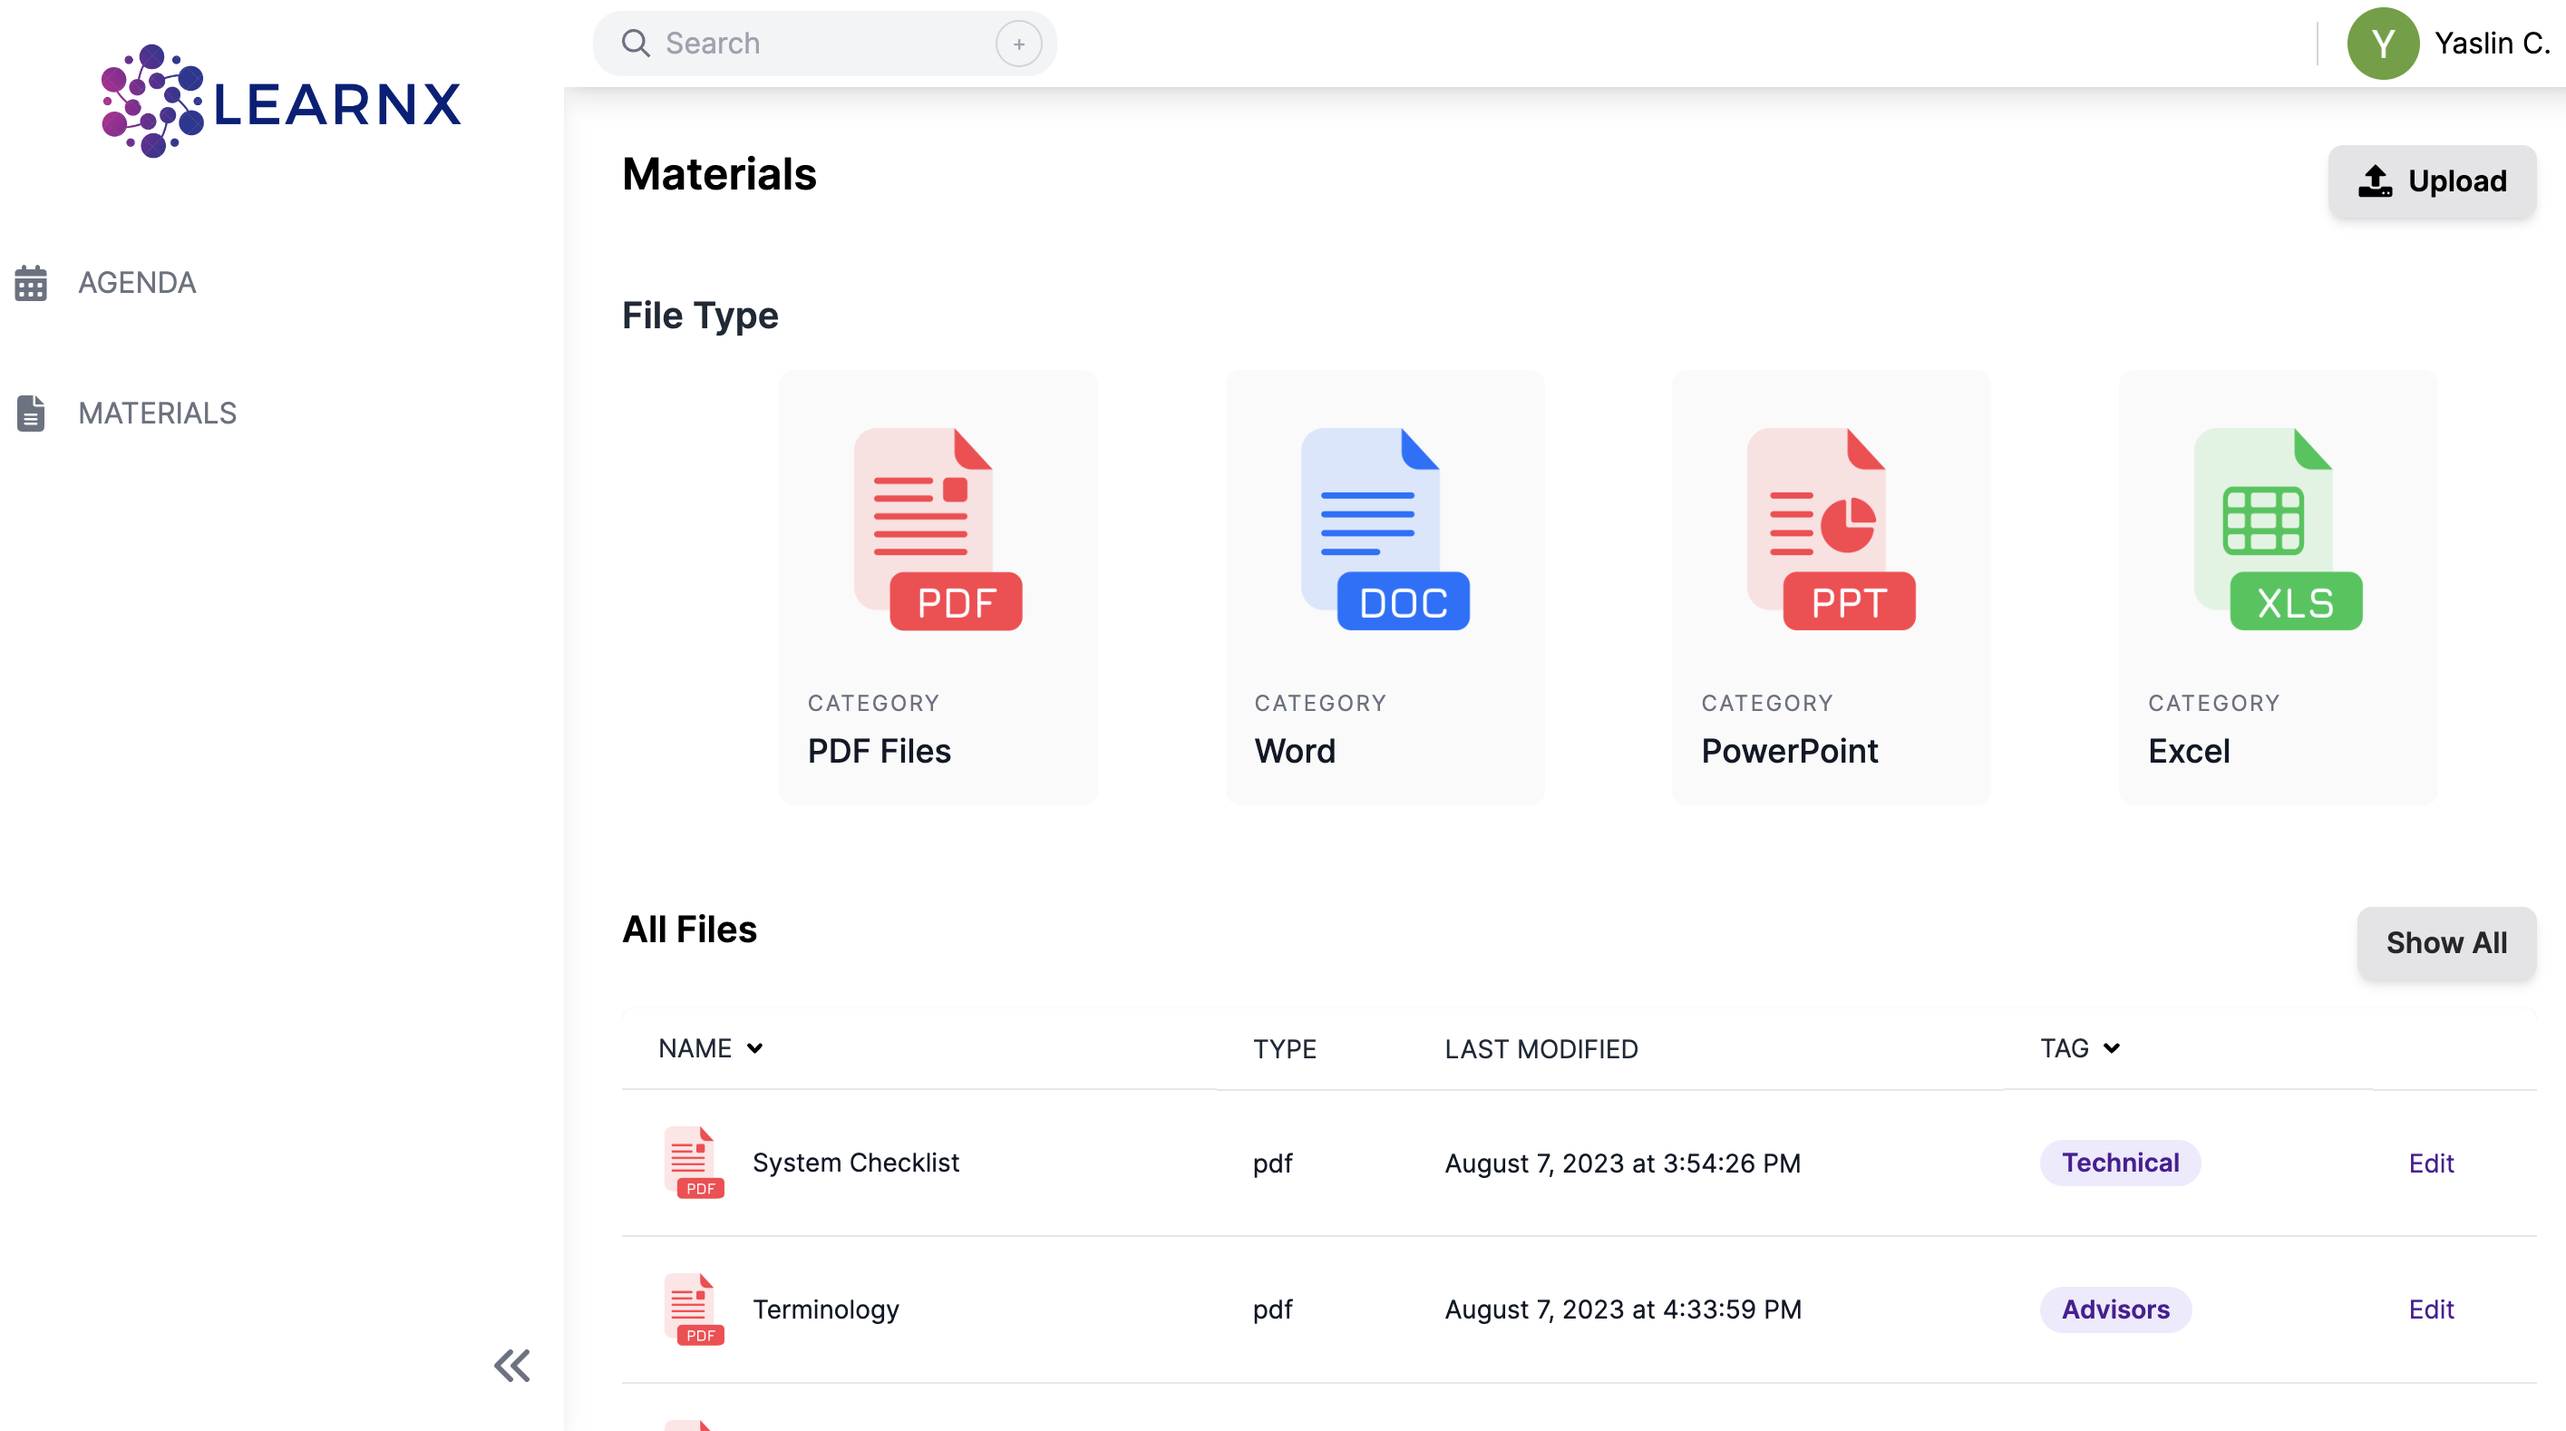
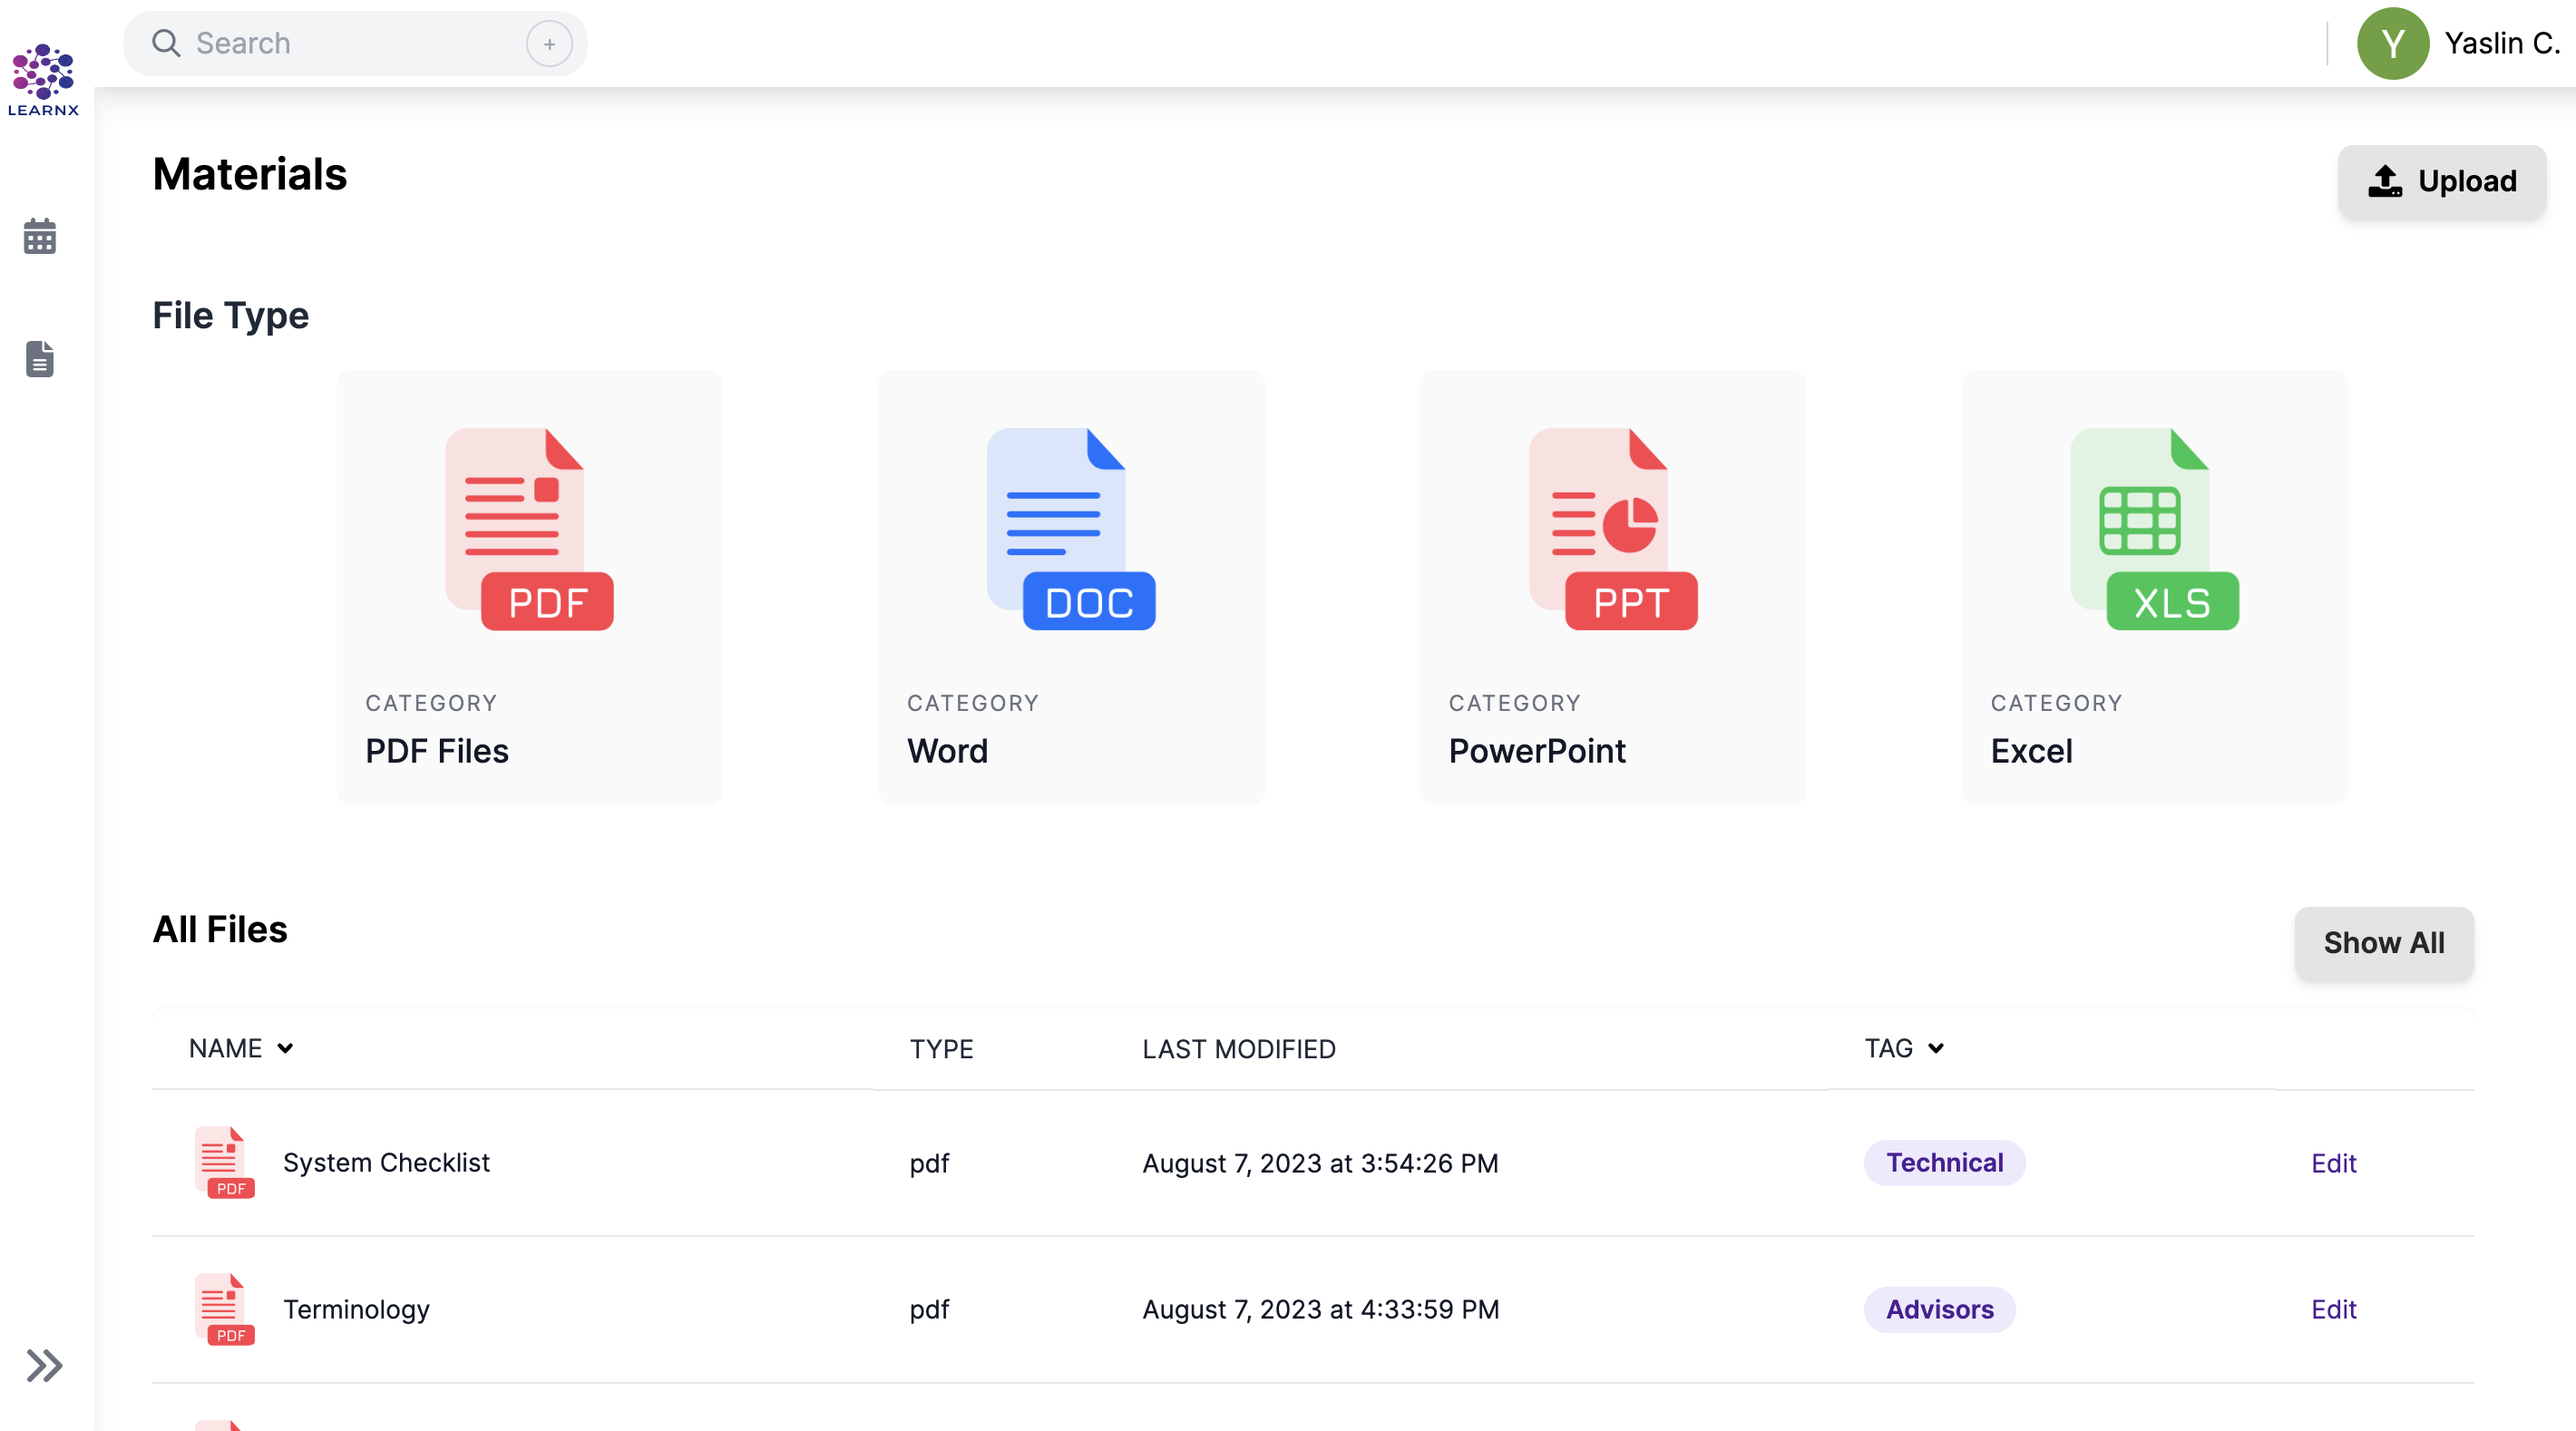
UPATED material image

diff --git a/public/index.html b/public/index.html
@@ -119,7 +119,7 @@
 
             <span class="underline"></span>
 
-            <div class="card-container">
+            <div class="card-container marg">
 
 
                 <div class="card">
